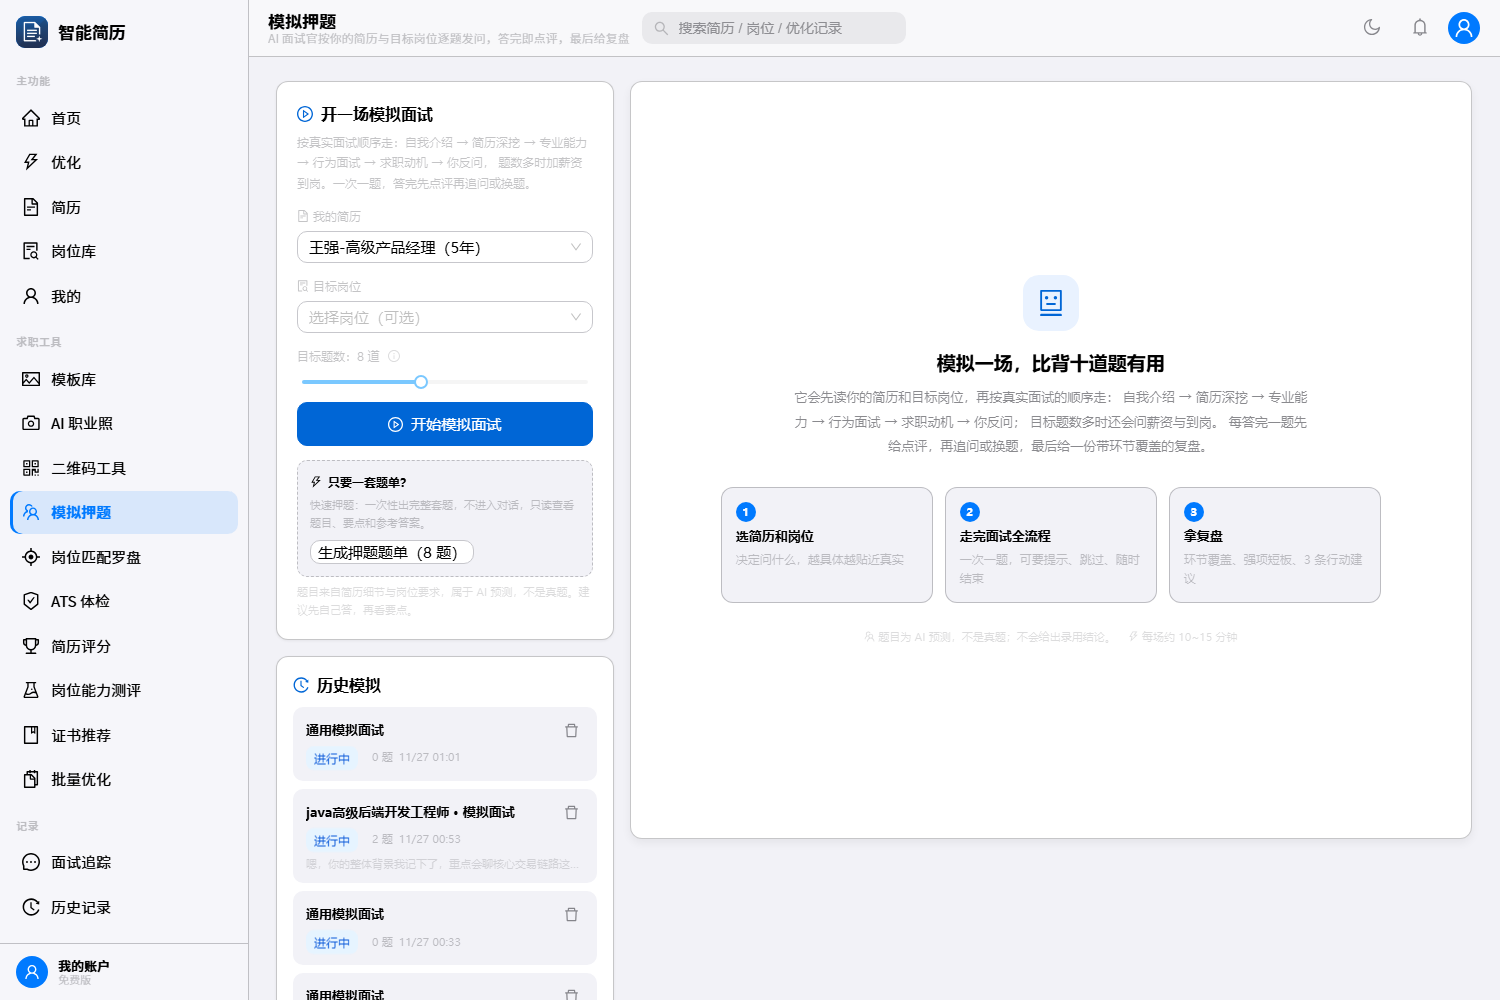
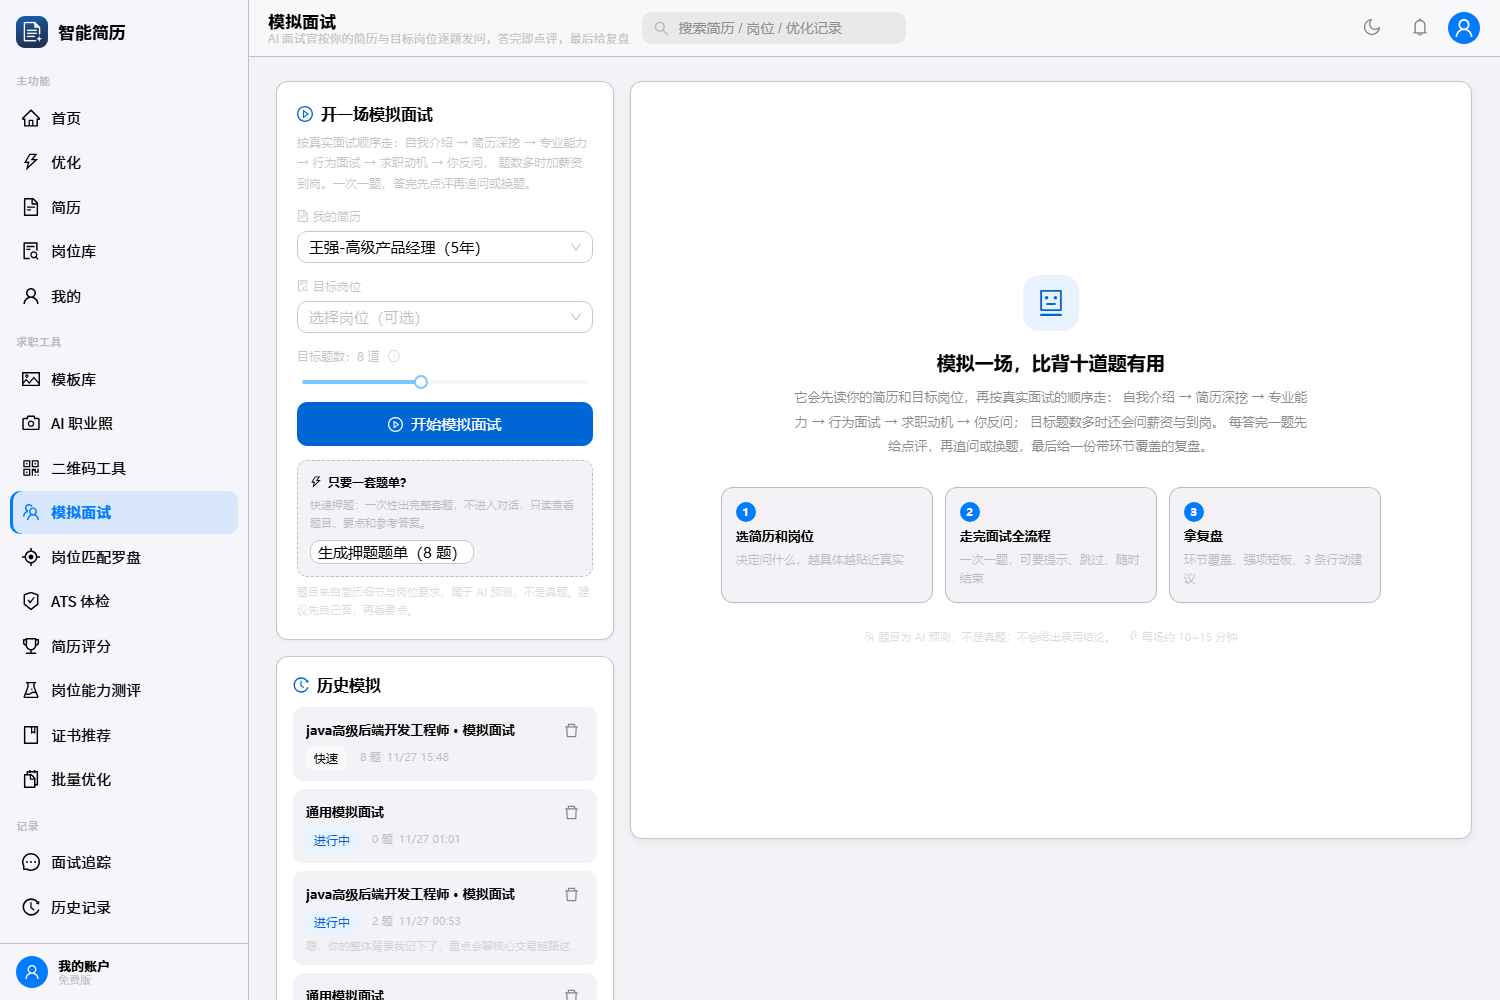
chore(interview): 功能入口统一命名为「模拟面试」
截图反馈的「押题」措辞与功能现状（对话式模拟真实面试全流程）不符：

- 左侧导航菜单与首页快捷入口：模拟押题 → 模拟面试
- /interview 页面标题：模拟押题 → 模拟面试
- 首页漏斗建议文案同步
- 代码注释术语统一（blocks/api/types 等 6 处）
- E2E 断言同步为「模拟面试」

说明：主按钮「开始模拟面试」在上一提交（2872c55）已是新文案，
截图中显示「开始模拟押题」为浏览器缓存的旧 bundle，刷新即可。

diff --git a/frontend/src/app/dashboard/page.tsx b/frontend/src/app/dashboard/page.tsx
@@ -268,7 +268,7 @@ export default function Dashboard() {
     applied: '收藏后投递转化偏低：别让岗位躺在收藏夹，匹配度达标就尽快定制简历投递。',
     reply: 'HR 回复率偏低：建议检查简历匹配度与关键词覆盖——低于 70 分的简历初筛容易被刷。',
     interview: '回复到面试的转化偏低：复盘投递渠道与简历针对性，优先投递高匹配岗位。',
-    offer: '面试到 Offer 的转化偏低：用模拟押题提前演练高频问题与追问。',
+    offer: '面试到 Offer 的转化偏低：用模拟面试提前演练高频问题与追问。',
   }
   const weakestStage = funnelConv
     .filter((c) => c.rate !== null && c.stuck)
@@ -542,7 +542,7 @@ export default function Dashboard() {
                   <Row gutter={[12, 12]}>
                     {[
                       { key: 'match', label: '岗位匹配罗盘', desc: '一份简历对比全部岗位', icon: <AimOutlined />, path: '/match', color: 'var(--primary-500)' },
-                      { key: 'interview', label: '模拟押题', desc: 'AI 面试官逐题发问 + 复盘', icon: <TeamOutlined />, path: '/interview', color: 'var(--success-500)' },
+                      { key: 'interview', label: '模拟面试', desc: 'AI 面试官逐题发问 + 复盘', icon: <TeamOutlined />, path: '/interview', color: 'var(--success-500)' },
                       { key: 'ats', label: 'ATS 体检', desc: '机器可读性检查', icon: <SafetyCertificateOutlined />, path: '/ats', color: 'var(--warning-500)' },
                       { key: 'scoring', label: '简历评分', desc: '四维量化打分', icon: <TrophyOutlined />, path: '/scoring', color: '#8b5cf6' },
                     ].map((t) => (

diff --git a/frontend/src/components/AppLayout.tsx b/frontend/src/components/AppLayout.tsx
@@ -83,7 +83,7 @@ const NAV_GROUPS: { label: string; items: NavItem[] }[] = [
       { key: 'templates', label: '模板库', icon: <PictureOutlined />, path: '/templates' },
       { key: 'photo', label: 'AI 职业照', icon: <CameraOutlined />, path: '/photo' },
       { key: 'qrcode', label: '二维码工具', icon: <QrcodeOutlined />, path: '/qrcode' },
-      { key: 'interview', label: '模拟押题', icon: <TeamOutlined />, path: '/interview' },
+      { key: 'interview', label: '模拟面试', icon: <TeamOutlined />, path: '/interview' },
       { key: 'match', label: '岗位匹配罗盘', icon: <AimOutlined />, path: '/match' },
       { key: 'ats', label: 'ATS 体检', icon: <SafetyCertificateOutlined />, path: '/ats' },
       { key: 'scoring', label: '简历评分', icon: <TrophyOutlined />, path: '/scoring' },

diff --git a/frontend/src/app/interview/page.tsx b/frontend/src/app/interview/page.tsx
@@ -1,7 +1,7 @@
 'use client'
 
 /**
- * 模拟押题（原「AI 面试押题」）：对话式模拟面试官。
+ * 模拟面试（原「AI 面试押题」/「模拟押题」）：对话式模拟面试官。
  *
  * 交互：选简历/岗位 → AI 开场并逐题发问 → 用户作答 → 点评 + 追问/下一题 → 复盘。
  * 旧版「快速押题」会话以只读形式回放；接口 /api/interview 保持兼容。
@@ -154,7 +154,7 @@ export default function MockInterviewPage() {
   return (
     <AppLayout
       activeKey="interview"
-      title="模拟押题"
+      title="模拟面试"
       subtitle="AI 面试官按你的简历与目标岗位逐题发问，答完即点评，最后给复盘"
     >
       <div className="app-page-enter mock-interview">

diff --git a/frontend/src/lib/sse.ts b/frontend/src/lib/sse.ts
@@ -1,7 +1,7 @@
 /**
  * 通用 SSE 客户端：POST + 逐帧解析 `data: {...}\n\n`。
  *
- * 抽出来之前，润色与模拟押题各写一份 40 行分帧逻辑——两边协议演进时容易只改一边。
+ * 抽出来之前，润色与模拟面试各写一份 40 行分帧逻辑——两边协议演进时容易只改一边。
  * 事件结构由调用方按 type 分派；单帧 JSON 损坏只跳过该帧，不中断整条流。
  */
 import { API_BASE_URL } from './api-base'

diff --git a/frontend/src/lib/api.ts b/frontend/src/lib/api.ts
@@ -550,7 +550,7 @@ export const insights = {
   overview: (days = 30) => api.get('/api/insights/overview', { params: { days } }),
 }
 
-/** 模拟押题：对话式（chat）+ 旧版快速押题（generate，保留兼容） */
+/** 模拟面试：对话式（chat）+ 旧版快速押题（generate，保留兼容） */
 export const interview = {
   /** 创建模拟会话（首轮对话由 chat 的 intent=start 触发） */
   createSession: (body: {

diff --git a/frontend/src/types/index.ts b/frontend/src/types/index.ts
@@ -604,7 +604,7 @@ export interface InsightOverview {
   generated_at: string
 }
 
-// ── 模拟押题（对话式）/ 旧版快速押题 ──
+// ── 模拟面试（对话式）/ 旧版快速押题 ──
 export type InterviewMode = 'quick' | 'chat'
 /** 会话生命周期：开场 / 进行中 / 已复盘 */
 export type InterviewStage = 'briefing' | 'asking' | 'finished'

diff --git a/frontend/src/lib/interview-chat.ts b/frontend/src/lib/interview-chat.ts
@@ -1,5 +1,5 @@
 /**
- * 模拟押题的纯函数：流式正文过滤、环节文案、快捷操作、消息合并。
+ * 模拟面试的纯函数：流式正文过滤、环节文案、快捷操作、消息合并。
  *
  * 单独抽出来的原因：
  * 1. SSE 增量里会夹着 ```question {...}``` 结构化块，直接渲染会出现大段 JSON；

diff --git a/frontend/src/app/interview/components/blocks.tsx b/frontend/src/app/interview/components/blocks.tsx
@@ -1,6 +1,6 @@
 'use client'
 
-/** 模拟押题的结构化卡片：题目 / 点评 / 复盘。纯展示，动作由页面回传。 */
+/** 模拟面试的结构化卡片：题目 / 点评 / 复盘。纯展示，动作由页面回传。 */
 import React, { useState } from 'react'
 import { Button, Tag, Tooltip } from 'antd'
 import {

diff --git a/frontend/src/hooks/useMockInterview.ts b/frontend/src/hooks/useMockInterview.ts
@@ -1,7 +1,7 @@
 'use client'
 
 /**
- * useMockInterview —— 模拟押题的会话状态机。
+ * useMockInterview —— 模拟面试的会话状态机。
  *
  * 职责边界：
  * - 只处理「创建/打开/对话/停止/删除」与消息合并，不碰任何渲染；

diff --git a/scripts/verify_mock_interview.py b/scripts/verify_mock_interview.py
@@ -71,9 +71,9 @@ def main() -> int:
 
             # ── 1. 页面骨架 ──
             page.goto(f"{FRONT}/interview", wait_until="domcontentloaded")
-            page.get_by_text("模拟押题", exact=True).first.wait_for(timeout=180_000)
+            page.get_by_text("模拟面试", exact=True).first.wait_for(timeout=180_000)
             page.locator('[data-testid="mock-start"]').wait_for(timeout=60_000)
-            check("模拟押题页渲染（标题 + 配置面板）", True)
+            check("模拟面试页渲染（标题 + 配置面板）", True)
             check("空态引导可见", page.get_by_text("模拟一场，比背十道题有用").count() == 1)
             check("历史模拟列表可见", page.get_by_text("历史模拟", exact=True).count() >= 1)
             check("保留一次性快速押题入口", page.locator('[data-testid="mock-quick"]').count() == 1)
@@ -238,7 +238,7 @@ def main() -> int:
 
                     # ── 4. 刷新恢复 ──
                     page.reload(wait_until="domcontentloaded")
-                    page.get_by_text("模拟押题", exact=True).first.wait_for(timeout=120_000)
+                    page.get_by_text("模拟面试", exact=True).first.wait_for(timeout=120_000)
                     saved = page.locator(f'[data-session-id="{created_id}"]')
                     saved.wait_for(timeout=30_000)
                     saved.click()
